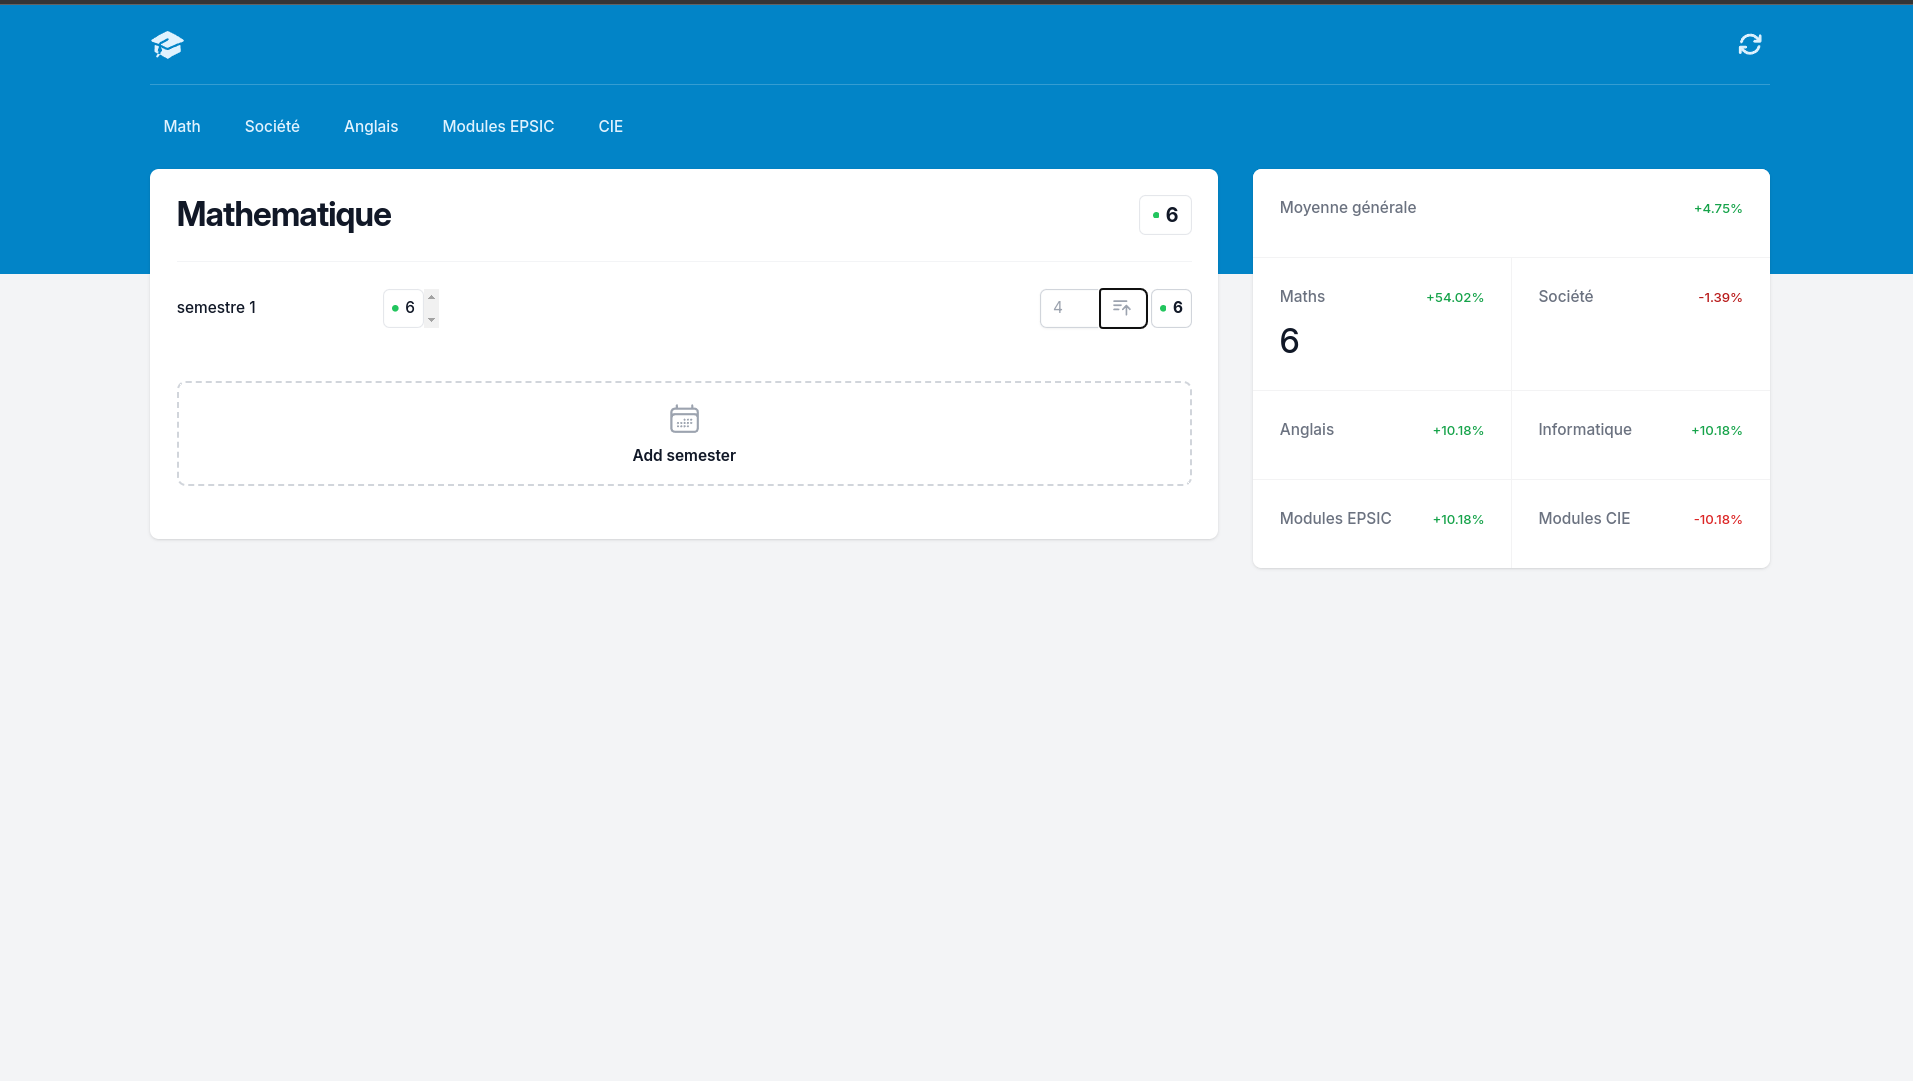
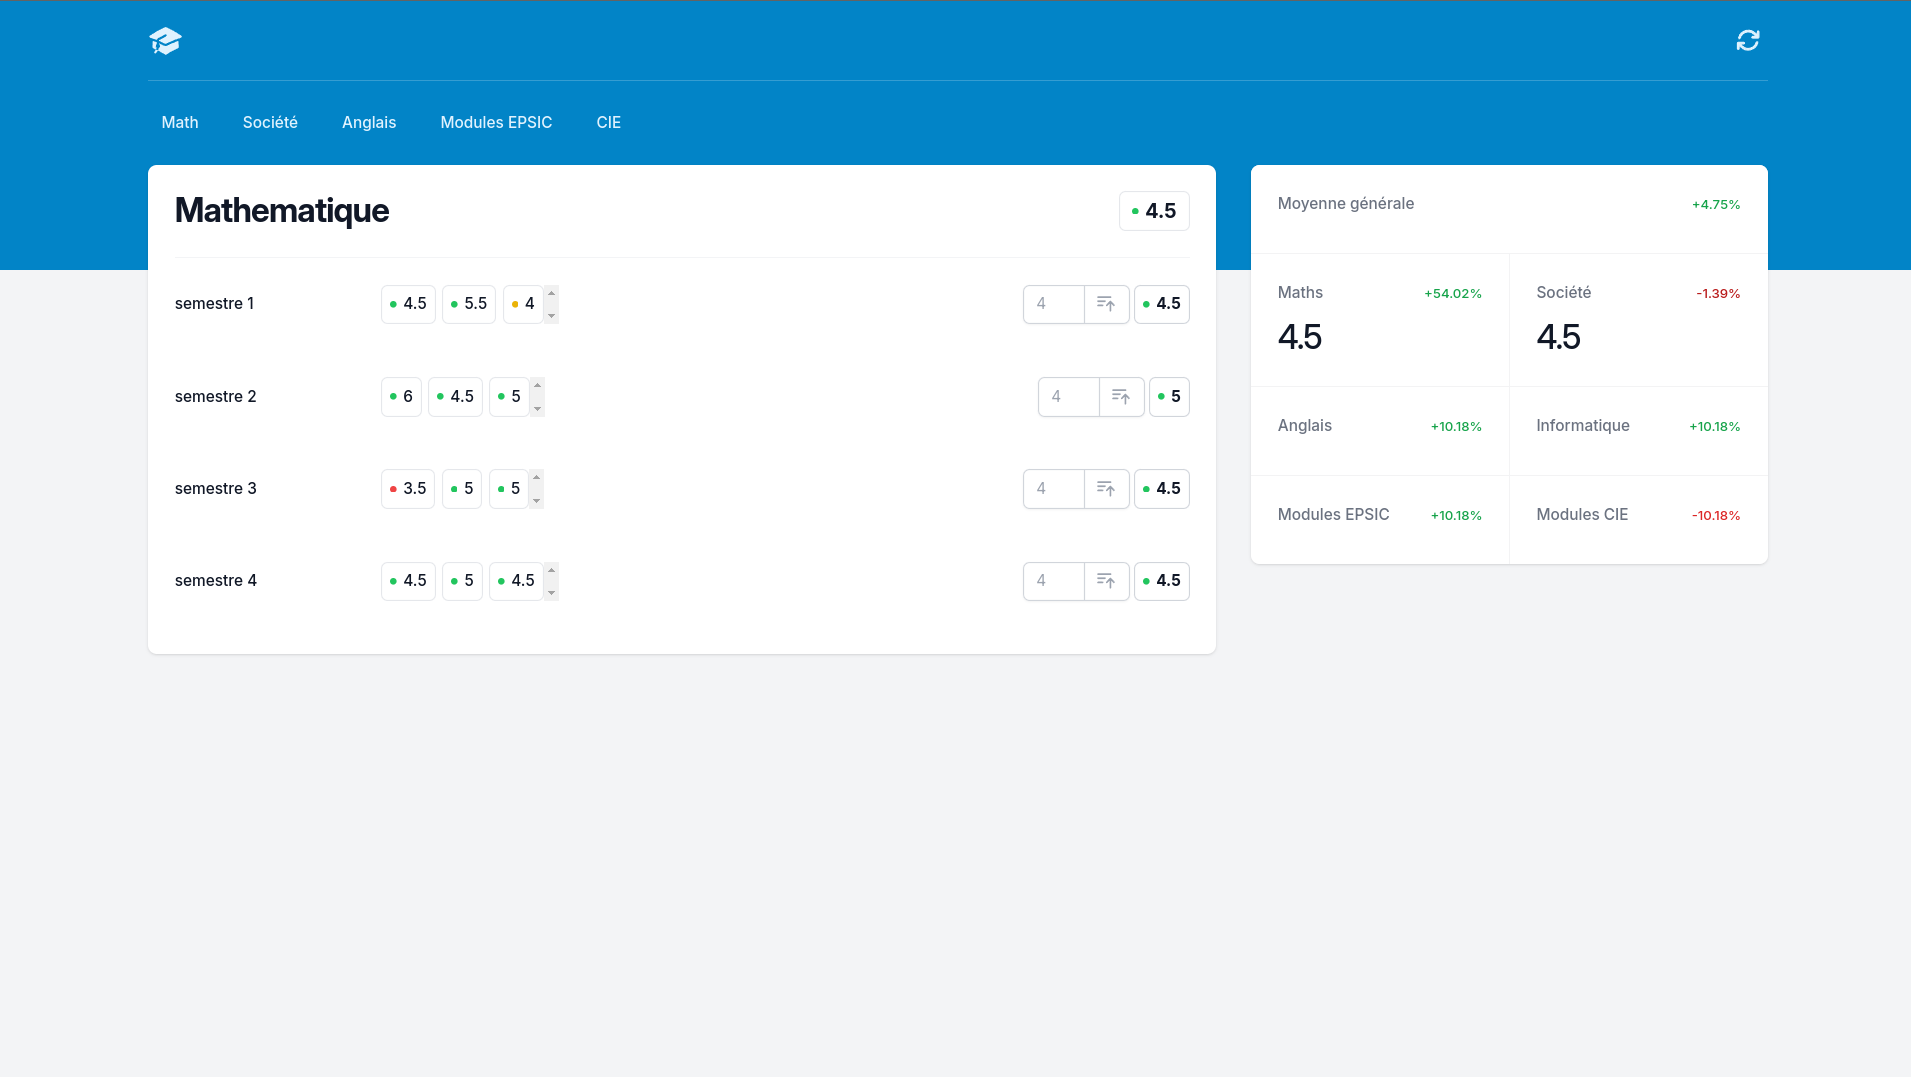
add : fill the grade calculator page and started Java tictactoe page

diff --git a/src/projects/grades-calculator.md b/src/projects/grades-calculator.md
@@ -1,10 +1,49 @@
 # JavaScript grade calculator  <Badge type="tip" text="JS" />
 
-There are two version of this project, on with pure JavaScript, and the other with a framework called [React.js](https://react.dev)
+## what is the project purpose ?
+
+The purpose of this website is to calculate a student's grades, determining all the necessary averages.
+It serves as a tool to help the student keep track of their grades during their learning.
+
+## How is look like 
+
+### Without grades added :
 
 ![grade calculator screenshot](../images/grade-calculator-image.png)
 
-In that website, you can add semester, then grades for that semester. Is also calculate automatically the average, and put
-A little svg colored based on the grade:
+###  With grades added :
 
 ![semester row with grades](../images/grade-calculator-exemple.png)
+
+
+## How did I do it
+
+This project is made with the framework called [React.js](https://react.dev) used with 
+[TypeScript](https://www.typescriptlang.org/docs/handbook/typescript-in-5-minutes.html). For the aspect of the website,
+I used a framework called [Tailwind.css](https://tailwindcss.com/)
+\
+\
+And to connect all that,
+we need to use [Vitejs](https://vitejs.dev/guide/), which propose file template for your project with different framework. 
+In this case, we're going to use the React-ts template. Which will give us this :
+
+
+```shell
+# Project creation
+npm create vite@latest  grades-view-react -- --template react-ts
+
+# Install dependencies needed for the project
+npm i
+
+# Install Tailwind.css 
+npm install -D tailwindcss
+
+```
+For configuring Tailwind.css in your files, follow [these instructions](https://tailwindcss.com/docs/installation)
+
+Then, you can start working on your project, separating your html code in different component which look like that for me :
+
+![project file tree](../images/gradesviewreact-filetree.png)
+
+## [You can find the GitHub depot here](https://github.com/Alex-zReeZ/grades-calculator-react)
+

diff --git a/src/projects/Java-TicTacToe.md b/src/projects/Java-TicTacToe.md
@@ -1,3 +1,27 @@
 # Java TicTacToe <Badge type="tip" text="Java" />
 
+## what is the project purpose ?
+
+this project was made to use the java knowledge that we acquire by doing the exercises proposed by Intellj
+
+
+## How is look like
+
+### Game Begin
+
 ![How looks the TicTacToe in the command line](../images/TicTacToe-incommandeline.png)
+
+### First player :
+
+![First player choose a place](../images/TicTacToe-playerX.png)
+
+###  Second Player :
+
+![Second player choose a place](../images/TicTacToe-playerO.png)
+
+### Winner
+
+![When a player win](../images/TicTacToe-winner.png)
+
+
+

diff --git a/src/projects/rust-todo.md b/src/projects/rust-todo.md
@@ -3,4 +3,14 @@
 For the realisation of this project, I use [Rust](https://www.rust-lang.org/). To help me with that task,
 I used [Rust documentation](https://doc.rust-lang.org/book/).
 
+```shell
+# Rust project creation 
+cargo new folder_name --bin
+
+# Execute programm 
+cargo run
+
+
+```
+
 ![Rust Todo in command line](../images/screen-rust-todo.png)

diff --git a/src/languages/javascript.md b/src/languages/javascript.md
@@ -1,5 +1,1 @@
 # JavaScript <Badge type="tip" text="JS" />
-
-
-
-![How looks the TicTacToe in the command line](../images/TicTacToe-incommandeline.png)
